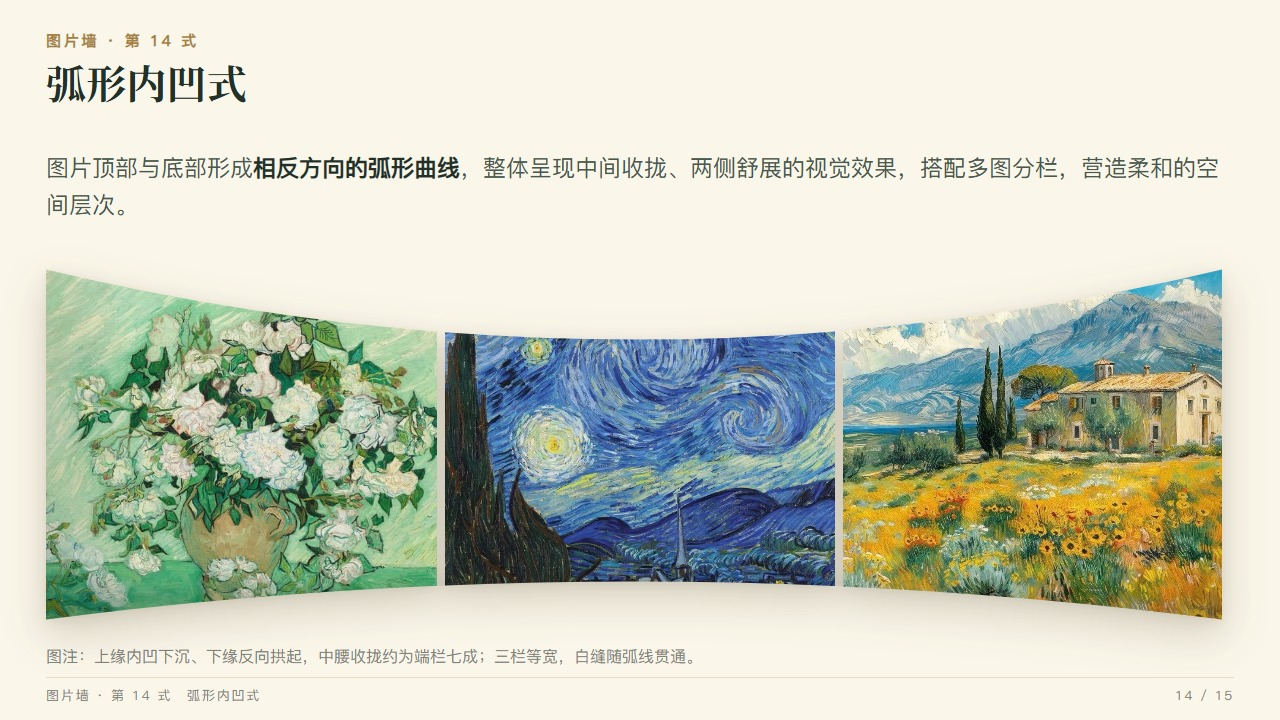
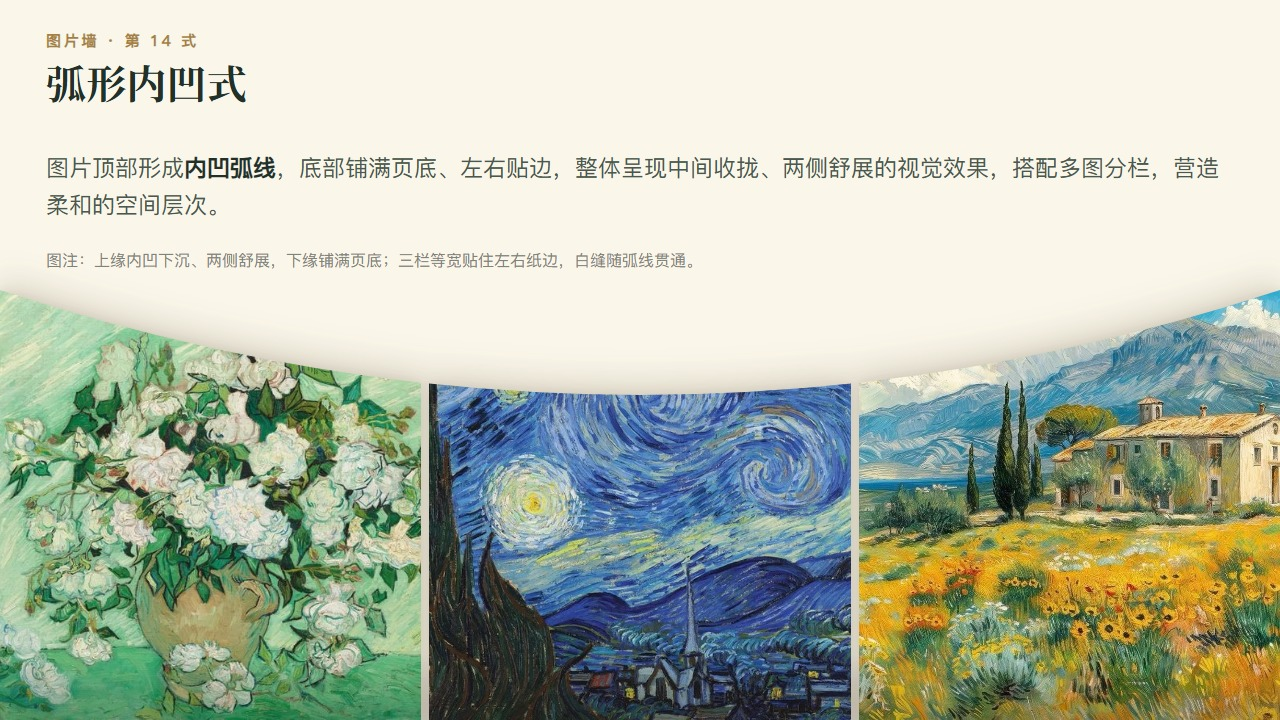
rice-paper-ppt 1.11.2：14 弧形内凹式按参考图重做——三向出血（上缘内凹弧、下缘平直铺满页底、左右贴边），.sb 内绝对定位 bottom:-58px，不设页脚条、图注并入 lead

diff --git a/rice-paper-ppt/assets/theme.css b/rice-paper-ppt/assets/theme.css
@@ -723,29 +723,31 @@ em { font-style: normal; font-weight: 700; color: var(--green); }
     linear-gradient(to top, rgba(34,24,12,.22) 0, rgba(34,24,12,0) 12%);
 }
 
-/* ── 14 弧形内凹式：整面一条 path，上缘内凹、下缘反向拱起，中腰收拢两侧舒展 ──────────
+/* ── 14 弧形内凹式：三向出血——上缘一条内凹弧，下缘铺满页底、左右贴纸边 ──────────────
    与 10/11 弧幕的分野：弧幕是整条带子朝一个方向弯（同一弧向、讲环幕）；
-   这一式上下两条弧方向相反——上缘从两侧向中间下沉、下缘从两侧向中间抬起，
-   中腰被双向收窄（约端栏的 69%），读出柔和的进深层次。
-   裁切挂内层 .cin 的 path()，投影挂外层 .w-conc 的 drop-shadow——
-   clip 会裁掉元素自身的影子。path 坐标按 1176×380 容器写死，容器变宽要重算。 */
+   这一式只有上缘一条弧——从两侧向中间下沉的内凹弧，两侧舒展、中腰收拢；
+   下缘是平直的、直接铺到页底（三向出血：左右贴边 + 底部越出 .sb 的 58px 留白），
+   读出「一块整面从页底长上来、顶边被掰出弧线」的柔和层次。
+   定位写在 .sb 内绝对定位（.sb 本身 absolute，是包含块）：bottom:-58px 恰好吃掉
+   .sb 的底部留白落到页底；高度 470 写死，path 按 1280×470 写死、宽度一变就错位。
+   裁切挂内层 .cin 的 path()；投影只有上弧裸露可见，挂外层 .w-conc 的 drop-shadow
+   向上打（clip 会裁掉元素自身的影子）。页底被图墙占用，本式**不设页脚条**，
+   图注写进 lead 行。 */
 .w-conc {
-  width: 100%; height: 380px; background: none;
-  filter: drop-shadow(0 16px 20px rgba(74,58,34,.20)) drop-shadow(0 3px 6px rgba(74,58,34,.10));
+  position: absolute; left: calc(var(--pad-x) * -1); right: calc(var(--pad-x) * -1);
+  bottom: -58px; height: 470px; background: none;
+  filter: drop-shadow(0 -10px 16px rgba(74,58,34,.18)) drop-shadow(0 -2px 5px rgba(74,58,34,.10));
 }
 .w-conc .cin {
   display: flex; gap: 8px; width: 100%; height: 100%;
-  clip-path: path("M0 30 Q588 170 1176 30 L1176 380 Q588 304 0 380 Z");
+  clip-path: path("M0 40 Q640 250 1280 40 L1280 470 L0 470 Z");
 }
 .w-conc .cl { position: relative; flex: 1 1 0; min-width: 0; }
 .w-conc .cl img { width: 100%; height: 100%; object-fit: cover; display: block; }
-/* 受光随弧走：底缘压暗，两端补极浅侧影；::after 在 .cin 内，跟着同一条 path 裁 */
+/* 受光随弧走：底缘压暗沉到页底；::after 在 .cin 内，跟着同一条 path 裁 */
 .w-conc .cin::after {
   content: ""; position: absolute; inset: 0; pointer-events: none;
-  background:
-    linear-gradient(to top, rgba(34,24,12,.22) 0, rgba(34,24,12,0) 14%),
-    linear-gradient(to right, rgba(34,24,12,.10) 0, rgba(34,24,12,0) 8%),
-    linear-gradient(to left, rgba(34,24,12,.10) 0, rgba(34,24,12,0) 8%);
+  background: linear-gradient(to top, rgba(34,24,12,.22) 0, rgba(34,24,12,0) 14%);
 }
 
 /* ── 15 斜切折页式：左右两翼竖幅，底边向中脊斜切收拢，中脊下方展开漏斗托图注 ──────────

diff --git a/rice-paper-ppt/examples/wall-conc.html b/rice-paper-ppt/examples/wall-conc.html
@@ -11,10 +11,11 @@
   <div class="pbar"></div>
   <div id="deck">
 
-    <!-- 14 弧形内凹式：整面一条 path——上缘从两侧向中间下沉、下缘反向拱起，
-         中腰被双向收窄（约端栏 69%），读出柔和的进深层次。
-         裁切挂内层 .cin 的 path()（1176×380 坐标写死），投影挂外层 .w-conc 的 drop-shadow；
-         ::after 在 .cin 内跟着同一条 path 裁。弧向与 10/11 弧幕不同：那式整条带子同向弯。
+    <!-- 14 弧形内凹式：三向出血——上缘一条从两侧向中间下沉的内凹弧，
+         下缘平直铺满页底、左右贴纸边（.sb 内绝对定位，bottom:-58px 吃掉底部留白）。
+         裁切挂内层 .cin 的 path()（1280×470 坐标写死），投影只有上弧裸露可见，
+         挂外层 .w-conc 的 drop-shadow 向上打；::after 在 .cin 内跟着同一条 path 裁。
+         弧向与 10/11 弧幕不同：那式整条带子同向弯。页底被图墙占用，本式不设页脚条。
          动画：三栏从左到右逐栏浮起，被外轮廓逐栏揭出。 -->
     <section class="slide on">
       <div class="sh">
@@ -22,7 +23,8 @@
         <h1 class="stitle">弧形内凹式</h1>
       </div>
       <div class="sb">
-        <p class="lead">图片顶部与底部形成<b>相反方向的弧形曲线</b>，整体呈现中间收拢、两侧舒展的视觉效果，搭配多图分栏，营造柔和的空间层次。</p>
+        <p class="lead">图片顶部形成<b>内凹弧线</b>，底部铺满页底、左右贴边，整体呈现中间收拢、两侧舒展的视觉效果，搭配多图分栏，营造柔和的空间层次。</p>
+        <div class="figcap">图注：上缘内凹下沉、两侧舒展，下缘铺满页底；三栏等宽贴住左右纸边，白缝随弧线贯通。</div>
         <div class="wall w-conc">
           <div class="cin">
             <div class="cl"><img src="img/vg6.jpg" alt=""></div>
@@ -30,9 +32,7 @@
             <div class="cl"><img src="img/vg5.jpg" alt=""></div>
           </div>
         </div>
-        <div class="figcap">图注：上缘内凹下沉、下缘反向拱起，中腰收拢约为端栏七成；三栏等宽，白缝随弧线贯通。</div>
       </div>
-      <div class="foot"><span>图片墙 · 第 14 式　弧形内凹式</span><span>14 / 15</span></div>
     </section>
   </div>
   <script src="../assets/deck.js"></script>

diff --git a/rice-paper-ppt/SKILL.md b/rice-paper-ppt/SKILL.md
@@ -1,7 +1,7 @@
 ---
 name: rice-paper-ppt
-version: 1.11.1
-description: 制作或改版「米纸质感」风格的 HTML 幻灯片时使用：1280×720 单页文件式 deck，暖米纸底 + 深林绿 + 哑光金的中式编辑版式，衬线大标题、投影级字号（正文不低于 20px，表格/代码不低于 18px），自带 theme.css 版式系统、6 页可运行骨架、十五种版式配方（含多图排版的图片墙十五式：1 齐边错落式 / 2 波浪贯通式 / 3 纵深渐进式 / 4 不对称叶片式 / 5 螺旋长卷式——内联 SVG 逐块裁形填图，整页通栏与内容页两种落位 / 6 半圆扇面式——扇骨即放射接缝 / 7 弧形切幅式——上缘左低右高单向抬起 / 8 矩阵网格式——5×3 十五格卷成圆柱面（棱柱面法：translateZ(-R) rotateY(φ) translateZ(R)，五列叠容器中点） / 9 折页长卷式与 10–11 弧幕连屏式（外弧、内弧）——共边梯形不用逐片旋转 / 12 峰谷天际线式——九扇底边对齐、高度对称起伏成峰谷，正中一扇深色主塔拔起压轴（.pk 压暗做全页锚点） / 13 四季弧线式——整页通栏左右贴边，整面一条贝塞尔弧裁出「远小近大」：顶边连续上拱左低右高、底边反向缓抬、四栏左薄右厚，金节点落在弧线上即时间轴刻度 / 14 弧形内凹式——上下缘反向弧线、中腰收拢两侧舒展 / 15 斜切折页式——六扇竖幅底边两段斜切向中央折脊收拢、中脊下漏斗托图注，曲线用 clip-path path、纵深用 perspective+rotateY、立体靠暖白拼缝、沿轮廓投影与受光差，2 / 4 的曲线按参考图逐列量得再转贝塞尔，4 左端下缘单调收束不留尖钩）、可选增强层 fx.js（无 GSAP 时自动退回纯 CSS，有 GSAP 时接管编排，并留出 WebGL / Canvas 的注册接口）与 Playwright 逐页版式审计脚本；视觉与文案双层规范、文案分语言与信息结构两份：版式层固定页码「当前/总页」、章节首页徽记（印章圆环 + 单色线稿）、视频暂停与进度条控件，文案层按 copywriting-spec.md 约束标题、句式、术语与标点，按 content-structure-spec.md 约束专业术语提炼、信息层级重构、内容压缩、章节封面定位与信息可视化，消除机械化对比句式、口语化引导语、模糊代称和空泛营销表达。适用于汇报、路演、方案宣讲、培训、分享会、文化展陈、课程等任何需要大屏投影且讲究纸感的场合，也适用于把已有同类 HTML 幻灯片按这套规范重构（放大字号、消除空旷、修溢出、重排层级、规范文案语言、给一组图排成整墙）；图片个数一维另有一张速查表——一页放几张图就查 references/image-count-layouts.md（1–10 张与超多图各有首选骨架与适配主题，与十五式「关系母题」互相校验）。触发词：米纸风 PPT、中式学术风幻灯片、纸感 deck、把这份 PPT 改成米纸风格、HTML 幻灯片改版、放大字号、排得专业点、PPT 文案规范化、PPT 文案精炼、信息结构化、专业术语提炼、去掉模糊代称、章节封面精简、多图排版、几张图怎么排、一张图 / 两张图 / N 张图怎么排、这个数量怎么摆、图片墙、图片错落排布、去掉 AI 味。
+version: 1.11.2
+description: 制作或改版「米纸质感」风格的 HTML 幻灯片时使用：1280×720 单页文件式 deck，暖米纸底 + 深林绿 + 哑光金的中式编辑版式，衬线大标题、投影级字号（正文不低于 20px，表格/代码不低于 18px），自带 theme.css 版式系统、6 页可运行骨架、十五种版式配方（含多图排版的图片墙十五式：1 齐边错落式 / 2 波浪贯通式 / 3 纵深渐进式 / 4 不对称叶片式 / 5 螺旋长卷式——内联 SVG 逐块裁形填图，整页通栏与内容页两种落位 / 6 半圆扇面式——扇骨即放射接缝 / 7 弧形切幅式——上缘左低右高单向抬起 / 8 矩阵网格式——5×3 十五格卷成圆柱面（棱柱面法：translateZ(-R) rotateY(φ) translateZ(R)，五列叠容器中点） / 9 折页长卷式与 10–11 弧幕连屏式（外弧、内弧）——共边梯形不用逐片旋转 / 12 峰谷天际线式——九扇底边对齐、高度对称起伏成峰谷，正中一扇深色主塔拔起压轴（.pk 压暗做全页锚点） / 13 四季弧线式——整页通栏左右贴边，整面一条贝塞尔弧裁出「远小近大」：顶边连续上拱左低右高、底边反向缓抬、四栏左薄右厚，金节点落在弧线上即时间轴刻度 / 14 弧形内凹式——三向出血：上缘内凹弧两侧舒展、下缘平直铺满页底左右贴边，不设页脚条 / 15 斜切折页式——六扇竖幅底边两段斜切向中央折脊收拢、中脊下漏斗托图注，曲线用 clip-path path、纵深用 perspective+rotateY、立体靠暖白拼缝、沿轮廓投影与受光差，2 / 4 的曲线按参考图逐列量得再转贝塞尔，4 左端下缘单调收束不留尖钩）、可选增强层 fx.js（无 GSAP 时自动退回纯 CSS，有 GSAP 时接管编排，并留出 WebGL / Canvas 的注册接口）与 Playwright 逐页版式审计脚本；视觉与文案双层规范、文案分语言与信息结构两份：版式层固定页码「当前/总页」、章节首页徽记（印章圆环 + 单色线稿）、视频暂停与进度条控件，文案层按 copywriting-spec.md 约束标题、句式、术语与标点，按 content-structure-spec.md 约束专业术语提炼、信息层级重构、内容压缩、章节封面定位与信息可视化，消除机械化对比句式、口语化引导语、模糊代称和空泛营销表达。适用于汇报、路演、方案宣讲、培训、分享会、文化展陈、课程等任何需要大屏投影且讲究纸感的场合，也适用于把已有同类 HTML 幻灯片按这套规范重构（放大字号、消除空旷、修溢出、重排层级、规范文案语言、给一组图排成整墙）；图片个数一维另有一张速查表——一页放几张图就查 references/image-count-layouts.md（1–10 张与超多图各有首选骨架与适配主题，与十五式「关系母题」互相校验）。触发词：米纸风 PPT、中式学术风幻灯片、纸感 deck、把这份 PPT 改成米纸风格、HTML 幻灯片改版、放大字号、排得专业点、PPT 文案规范化、PPT 文案精炼、信息结构化、专业术语提炼、去掉模糊代称、章节封面精简、多图排版、几张图怎么排、一张图 / 两张图 / N 张图怎么排、这个数量怎么摆、图片墙、图片错落排布、去掉 AI 味。
 license: MIT
 ---
 
@@ -113,7 +113,7 @@ cp -r rice-paper-ppt ~/.claude/skills/
 | 分部分 | 章节分隔（深绿章板） | 底色加重 + 超大编号 + 大标题 + 3 条要点 + 一句格言 + **本章徽记** |
 | 讲一个案例 | 图文分栏 | 图占 45–65%，文字只留 3 条结论 |
 | 两案对照 | 双栏并列 | 等宽两列 + 一条 `.bar` 收束 |
-| 并置一组图 | 图片墙十五式 + 个数速查表 | 十五式按关系定母题：1 齐边错落（4–5 张）/ 2 波浪贯通（4）/ 3 纵深渐进（8）/ 4 不对称叶片（4–5）/ 5 螺旋长卷（7 块，通栏与内容页两种落位）/ 6 半圆扇面（4）/ 7 弧形切幅（4）/ 8 矩阵网格（5×3 十五格圆柱面）/ 9 折页长卷（4）/ 10–11 弧幕连屏（4–5，外弧内弧）/ 12 峰谷天际线（9 扇，主塔压轴）/ 13 四季弧线（4 栏，贝塞尔弧时间轴）/ 14 弧形内凹（3 栏，双向弧）/ 15 斜切折页（6 幅，中脊漏斗）；1–3 张与超 10 张不在其区间，按 `references/image-count-layouts.md` 的个数骨架排。文字只留一条标题带。各式 16:9 整页实拍 `examples/wall-stagger|wave|depth|fan|coil|sec|crest|grid|fold|arc|arc-inner|sky|tarc|conc|tilt.jpg` |
+| 并置一组图 | 图片墙十五式 + 个数速查表 | 十五式按关系定母题：1 齐边错落（4–5 张）/ 2 波浪贯通（4）/ 3 纵深渐进（8）/ 4 不对称叶片（4–5）/ 5 螺旋长卷（7 块，通栏与内容页两种落位）/ 6 半圆扇面（4）/ 7 弧形切幅（4）/ 8 矩阵网格（5×3 十五格圆柱面）/ 9 折页长卷（4）/ 10–11 弧幕连屏（4–5，外弧内弧）/ 12 峰谷天际线（9 扇，主塔压轴）/ 13 四季弧线（4 栏，贝塞尔弧时间轴）/ 14 弧形内凹（3 栏，页底铺满）/ 15 斜切折页（6 幅，中脊漏斗）；1–3 张与超 10 张不在其区间，按 `references/image-count-layouts.md` 的个数骨架排。文字只留一条标题带。各式 16:9 整页实拍 `examples/wall-stagger|wave|depth|fan|coil|sec|crest|grid|fold|arc|arc-inner|sky|tarc|conc|tilt.jpg` |
 | 比参数 / 比方案 | 表格 | 4–7 行；7 行以上用 `.tbl.tight` |
 | 展示一段原文 | 引文框 | `pbox` + 结果图 + 高亮本次新增部分 |
 | 讲步骤 | 横向流程 | 4 节点 + 旁注 + `.bar` |

diff --git a/rice-paper-ppt/README.md b/rice-paper-ppt/README.md
@@ -32,7 +32,7 @@ serif display type, projection-scaled typography, a writing-style spec, and a Pl
   半圆扇面式讲聚拢（6，扇骨即放射接缝）、弧形切幅式讲延伸（7，上缘一条弧左低右高）、
   矩阵网格式讲秩序（8，5×3 十五格卷成圆柱面）、折页长卷式讲折页展开（9，四片共边梯形）、
   弧幕连屏式讲环幕（10，内弧 11 反向聚焦中央）、峰谷天际线式讲压轴（12，九扇底边对齐、
-  高度对称起伏、正中深色主塔拔起）、四季弧线式讲时间（13，整面贝塞尔弧裁出左薄右厚、远小近大、顶弧金节点）、弧形内凹式讲柔和收放（14，上下缘反向弧线、中腰收拢两侧舒展）、斜切折页式讲展开（15，六扇竖幅底边两段斜切向中央折脊收拢、中脊下漏斗托图注）。墙内等宽白缝、不逐图配卡；立体感来自暖白拼缝、
+  高度对称起伏、正中深色主塔拔起）、四季弧线式讲时间（13，整面贝塞尔弧裁出左薄右厚、远小近大、顶弧金节点）、弧形内凹式讲柔和收放（14，上缘内凹弧、下缘铺满页底左右贴边、三向出血）、斜切折页式讲展开（15，六扇竖幅底边两段斜切向中央折脊收拢、中脊下漏斗托图注）。墙内等宽白缝、不逐图配卡；立体感来自暖白拼缝、
   沿轮廓投影、边缘顶亮底暗与尺寸错落，不用发光和玻璃。`theme.css` 已内置十五式、标题带与 0.7s 入场动画，
   十五式的实拍、单格尺寸与横图裁切顺序见下文「图片墙十五式」。
 - **按图片个数选骨架**：十五式按「内容关系」定母题，个数是另一维——
@@ -139,9 +139,9 @@ serif display type, projection-scaled typography, a writing-style spec, and a Pl
 
 <p align="center"><img src="examples/wall-tarc.jpg" width="760" alt="13 四季弧线式：整页通栏贴边——顶边连续上拱贝塞尔弧（左沉→弧顶偏右→右端微落），底边反向缓抬，四栏左薄右厚（远小近大），金色节点落在弧线上即时间轴刻度" /></p>
 
-**14 弧形内凹式** — 图片顶部与底部形成相反方向的弧形曲线，整体呈现中间收拢、两侧舒展的视觉效果，搭配多图分栏，营造柔和的空间层次。
+**14 弧形内凹式** — 图片顶部形成内凹弧线，底部铺满页底、左右贴边，整体呈现中间收拢、两侧舒展的视觉效果，搭配多图分栏，营造柔和的空间层次。
 
-<p align="center"><img src="examples/wall-conc.jpg" width="760" alt="14 弧形内凹式：上缘内凹下沉、下缘反向拱起，中腰收拢约为端栏七成，三栏等宽白缝随弧线贯通" /></p>
+<p align="center"><img src="examples/wall-conc.jpg" width="760" alt="14 弧形内凹式：三向出血——上缘一条从两侧向中间下沉的内凹弧，下缘平直铺满页底、左右贴住纸边，三栏等宽白缝随弧线贯通" /></p>
 
 **15 斜切折页式** — 左侧倾斜切口形成不规则几何形状，六张图片组成连续的立体折页，呈现从单一形态向完整画面展开的视觉效果。
 
@@ -162,7 +162,7 @@ serif display type, projection-scaled typography, a writing-style spec, and a Pl
 | **11 弧幕连屏式（内弧）** | 同 10，弧向反转、中段鼓起 | 聚焦、收拢 | 4 | 同 10 | 51% |
 | **12 峰谷天际线式** | 九扇底边对齐，高度对称起伏，主塔压暗压轴 | 压轴、锚点、收束 | 9（7–9） | 端塔 300 → 谷 158–198，主塔满高 380 | 几乎不裁（竖幅 1:1.4–2.7） |
 | **13 四季弧线式** | 整页通栏贴边，整面贝塞尔弧：顶边连续上拱左低右高、底边反向缓抬，四栏左薄右厚（远小近大） | 时间、季节、行进 | 4 | ≈314×181–368（左薄右厚） | 裁切多（左右端各按弧收） |
-| **14 弧形内凹式** | 上缘内凹下沉、下缘反向拱起，中腰收拢 | 柔和收放、层次、分栏 | 3（3–5 栏） | ≈387×350（端栏）/≈387×242（中栏） | 端栏几乎不裁，中栏上下各收约三成 |
+| **14 弧形内凹式** | 三向出血：上缘内凹弧两侧舒展，下缘平直铺满页底、左右贴边 | 柔和收放、层次、分栏 | 3（3–5 栏） | ≈421×430（端栏）/≈421×330（中栏） | 端栏几乎不裁，中栏顶部收约两成 |
 | **15 斜切折页式** | 六扇竖幅顶边对齐，底边两段斜切向中央折脊收拢，中脊下漏斗托图注 | 展开、收拢、聚焦 | 6 | ≈185×310（六扇等宽，中脊 30px） | 竖幅优先（横图裁切约五成） |
 
 - **横构图素材优先 3**（格子接近 3:2），1 次之；2 / 4 的竖格会裁掉约四成宽，更适合承担氛围。

diff --git a/rice-paper-ppt/references/page-patterns.md b/rice-paper-ppt/references/page-patterns.md
@@ -206,7 +206,7 @@ SVG 的 presentation attribute 不吃 `var()`，所以别在图标里写 `var(--
 | 11 弧幕连屏式（内弧） | 同 10 反向，中段鼓起 | 聚焦、收拢 | 4 | 同 10 | 同 10 |
 | 12 峰谷天际线式 | 九扇底边对齐，高度对称起伏，主塔压暗压轴 | 压轴、锚点、收束 | 9（7–9） | 内容区内居中 | 图上导语 + 图下一行图注 |
 | 13 四季弧线式 | 整面贝塞尔弧：顶边连续上拱左低右高、底边反向缓抬，四栏左薄右厚（远小近大）、金节点钉弧线 | 时间、季节、行进 | 4 | 内容区内，四栏等宽 | 图下居中标题带 |
-| 14 弧形内凹式 | 上缘内凹下沉、下缘反向拱起，中腰收拢 | 柔和收放、层次、分栏 | 3（3–5 栏） | 内容区内，三栏等宽 | 图下居中标题带 |
+| 14 弧形内凹式 | 三向出血：上缘内凹弧两侧舒展，下缘平直铺满页底、左右贴边 | 柔和收放、层次、分栏 | 3（3–5 栏） | 整页通栏，三栏等宽 | 无页脚条，图注并入 lead |
 | 15 斜切折页式 | 六扇竖幅底边两段斜切向中央折脊收拢，中脊下漏斗托图注 | 展开、收拢、聚焦 | 6 | 内容区内 | 图注坐漏斗中 |
 
 样式在 `assets/theme.css` 的「图片墙」段：`.wall` 打底，修饰类分别是
@@ -523,12 +523,16 @@ SVG 的 presentation attribute 不吃 `var()`，所以别在图标里写 `var(--
 
 **整面一条 `clip-path: path()`：上缘从两侧向中间下沉、下缘反向拱起，中腰被双向收窄。**
 
-- **与 10/11 弧幕的分野**：弧幕是整条带子朝一个方向弯（同一弧向、讲环幕）；
-  这一式上下两条弧方向相反，收的是「中腰」，讲柔和的空间层次。
-- 收拢量：上缘端 30 → 中 100（沉 70）、下缘端 380 → 中 342（抬 38），中腰约为端栏的 69%；
-  再深显得刻意，再浅读不出「内凹」。
-- 结构：裁切挂内层 `.cin` 的 path()（1176×380 坐标写死，容器变宽要重算），
-  投影挂外层 `.w-conc` 的 `drop-shadow`——clip 会裁掉元素自身的影子；
+- **三向出血**：左右贴纸边 + 下缘平直铺到页底——`.w-conc` 在 `.sb` 内绝对定位
+  （`left/right: calc(var(--pad-x)*-1); bottom:-58px` 恰好吃掉 .sb 的底部留白落到页底），
+  高度 470 写死、path 按 1280×470 写死、宽度一变就错位。**页底被图墙占用，本式不设页脚条**，
+  图注写进 lead 行。
+- **只有上缘一条弧**：从两侧向中间下沉的内凹弧（端 40 → 中 145，Q 控制点 250），
+  两侧舒展、中腰收拢；下缘不再做反向拱——底部是铺满页底的直边。
+- 与 10/11 弧幕的分野：弧幕是整条带子朝一个方向弯（同一弧向、讲环幕）；
+  这一式只有顶弧收「中腰」，讲柔和的空间层次。
+- 结构：裁切挂内层 `.cin` 的 path()，投影只有上弧裸露可见、
+  挂外层 `.w-conc` 的 `drop-shadow` 向上打——clip 会裁掉元素自身的影子；
   `::after` 写在 `.cin` 里，跟着同一条 path 裁。
 - 栏数 3 栏默认（可 3–5）：等宽 `flex: 1 1 0`、缝 8px；白缝随弧线自然贯通，不用逐栏改高度。
 - 用于氛围铺底、柔和过渡页：图是「一块整面被掰出腰身」，不逐栏承担唯一证据。

diff --git a/rice-paper-ppt/references/components.md b/rice-paper-ppt/references/components.md
@@ -340,8 +340,9 @@
   </svg>
 </div>
 
-<!-- 14 弧形内凹式：整面一条 path——裁切挂内层 .cin（1176×380 坐标写死），投影挂外层 .w-conc
-     的 drop-shadow（clip 裁自身影子）；上缘端 30 → 中 100、下缘端 380 → 中 342，中腰约端栏 69% -->
+<!-- 14 弧形内凹式：三向出血——.w-conc 在 .sb 内绝对定位（left/right 负边距贴纸边、
+     bottom:-58px 铺到页底，不设页脚条）；裁切挂内层 .cin（1280×470 写死：
+     上缘内凹弧端 40 → 中 145，下缘平直），投影挂外层 drop-shadow 向上打（clip 裁自身影子） -->
 <div class="wall w-conc">
   <div class="cin">
     <div class="cl"><img src="assets/m1.jpg" alt=""></div>
